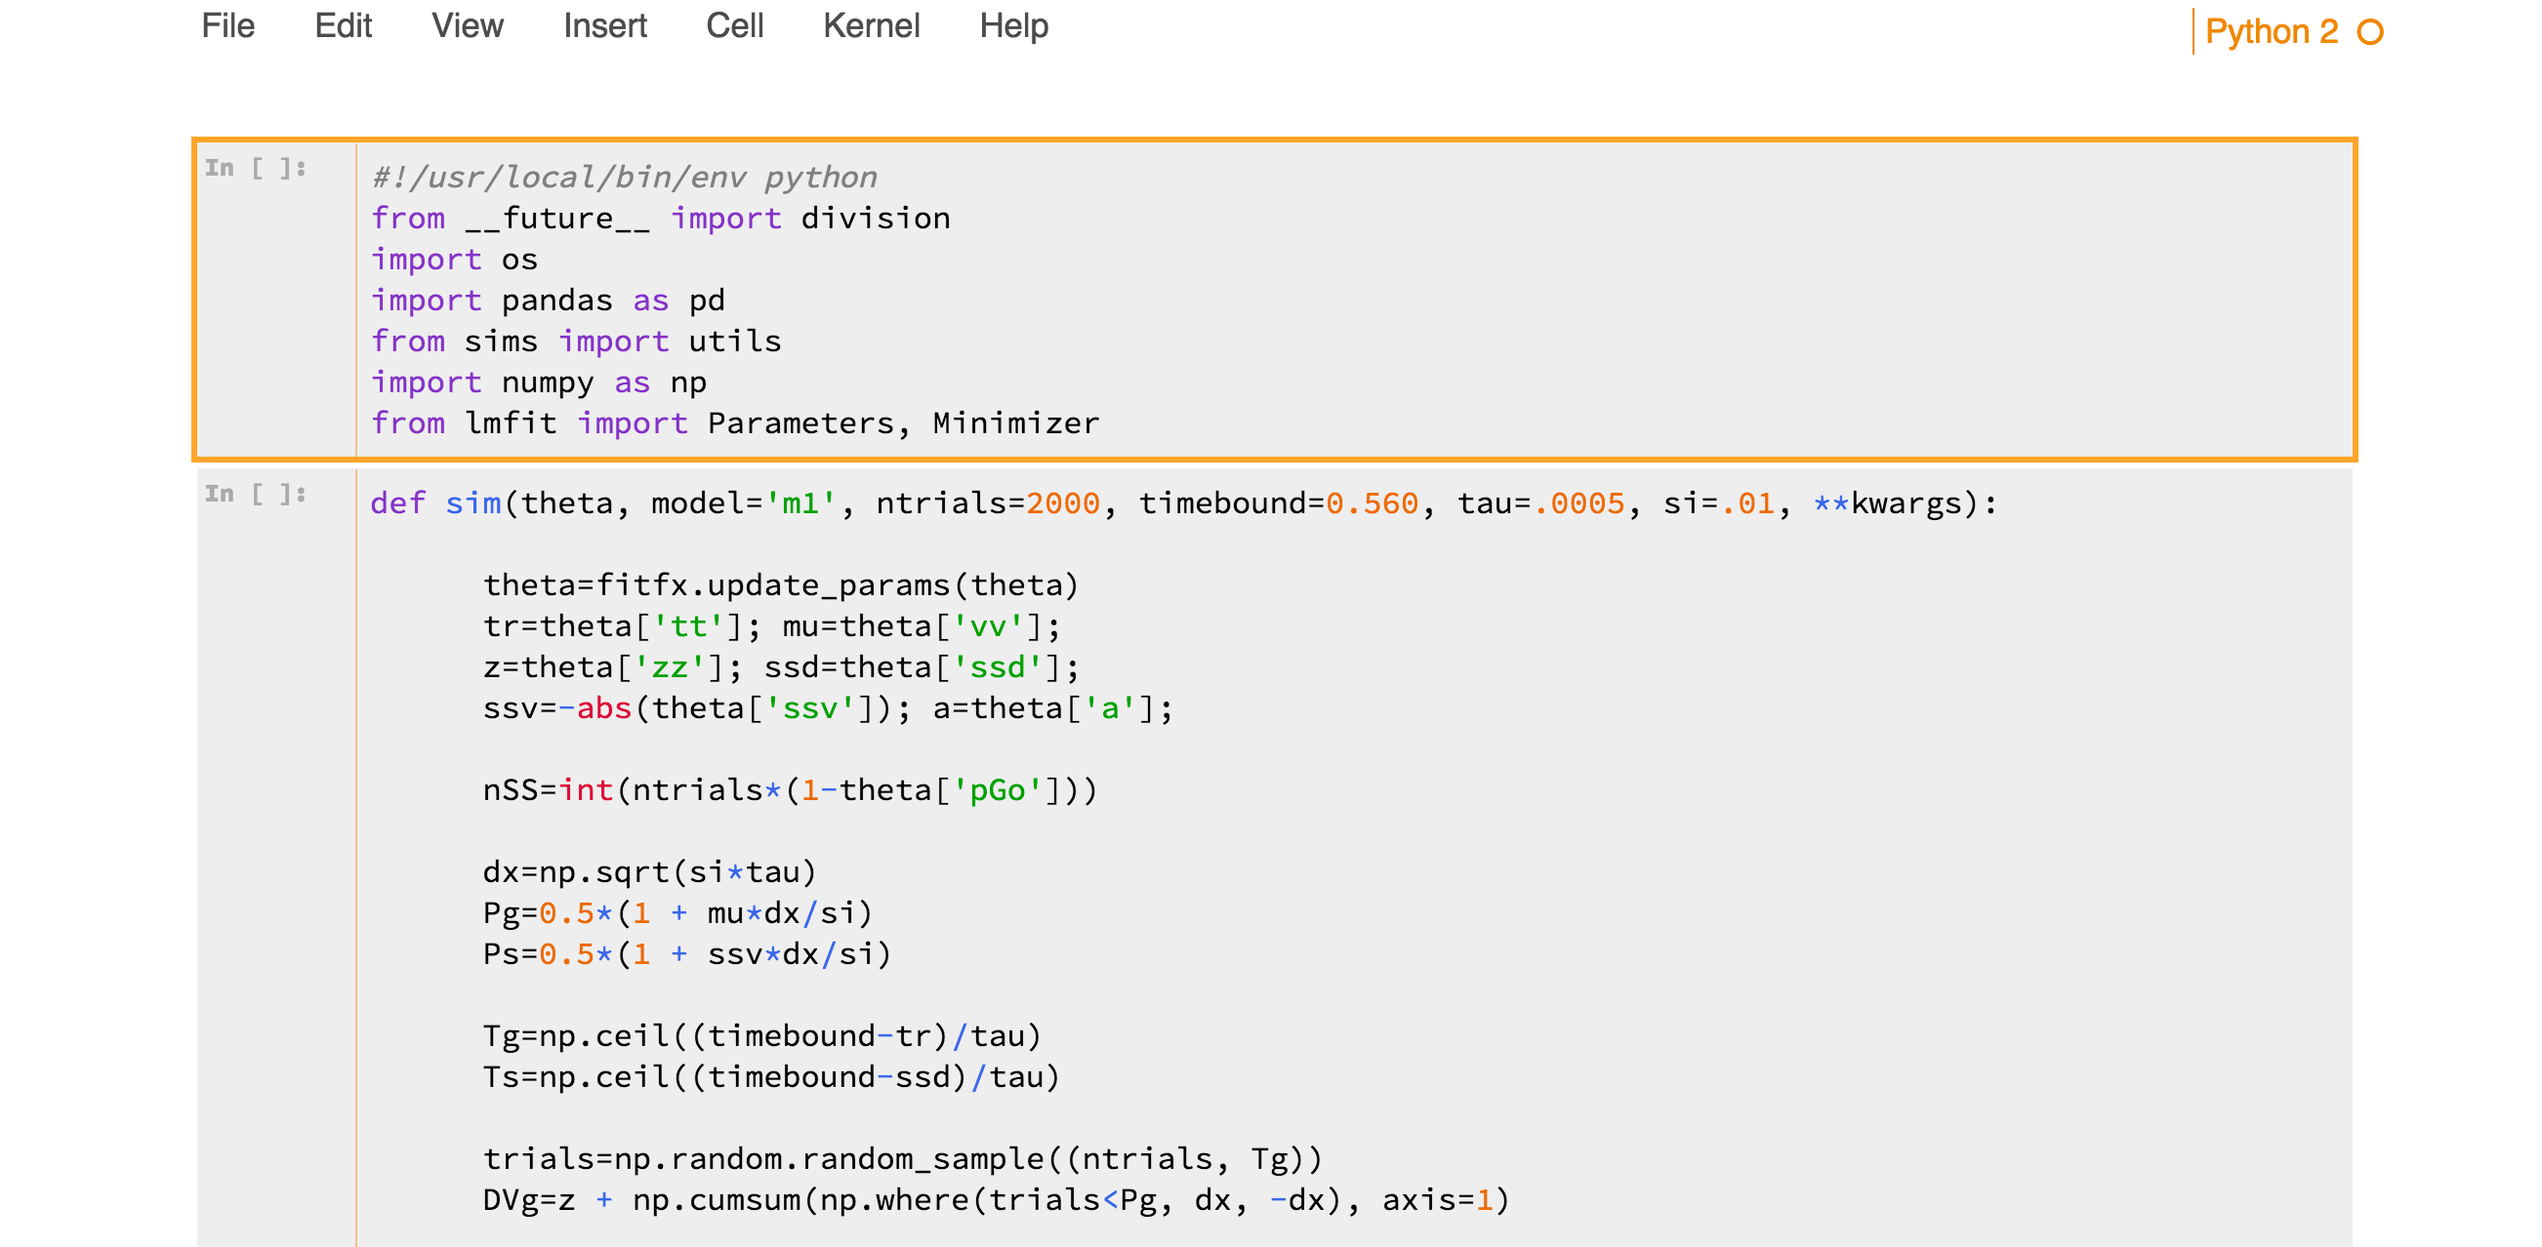
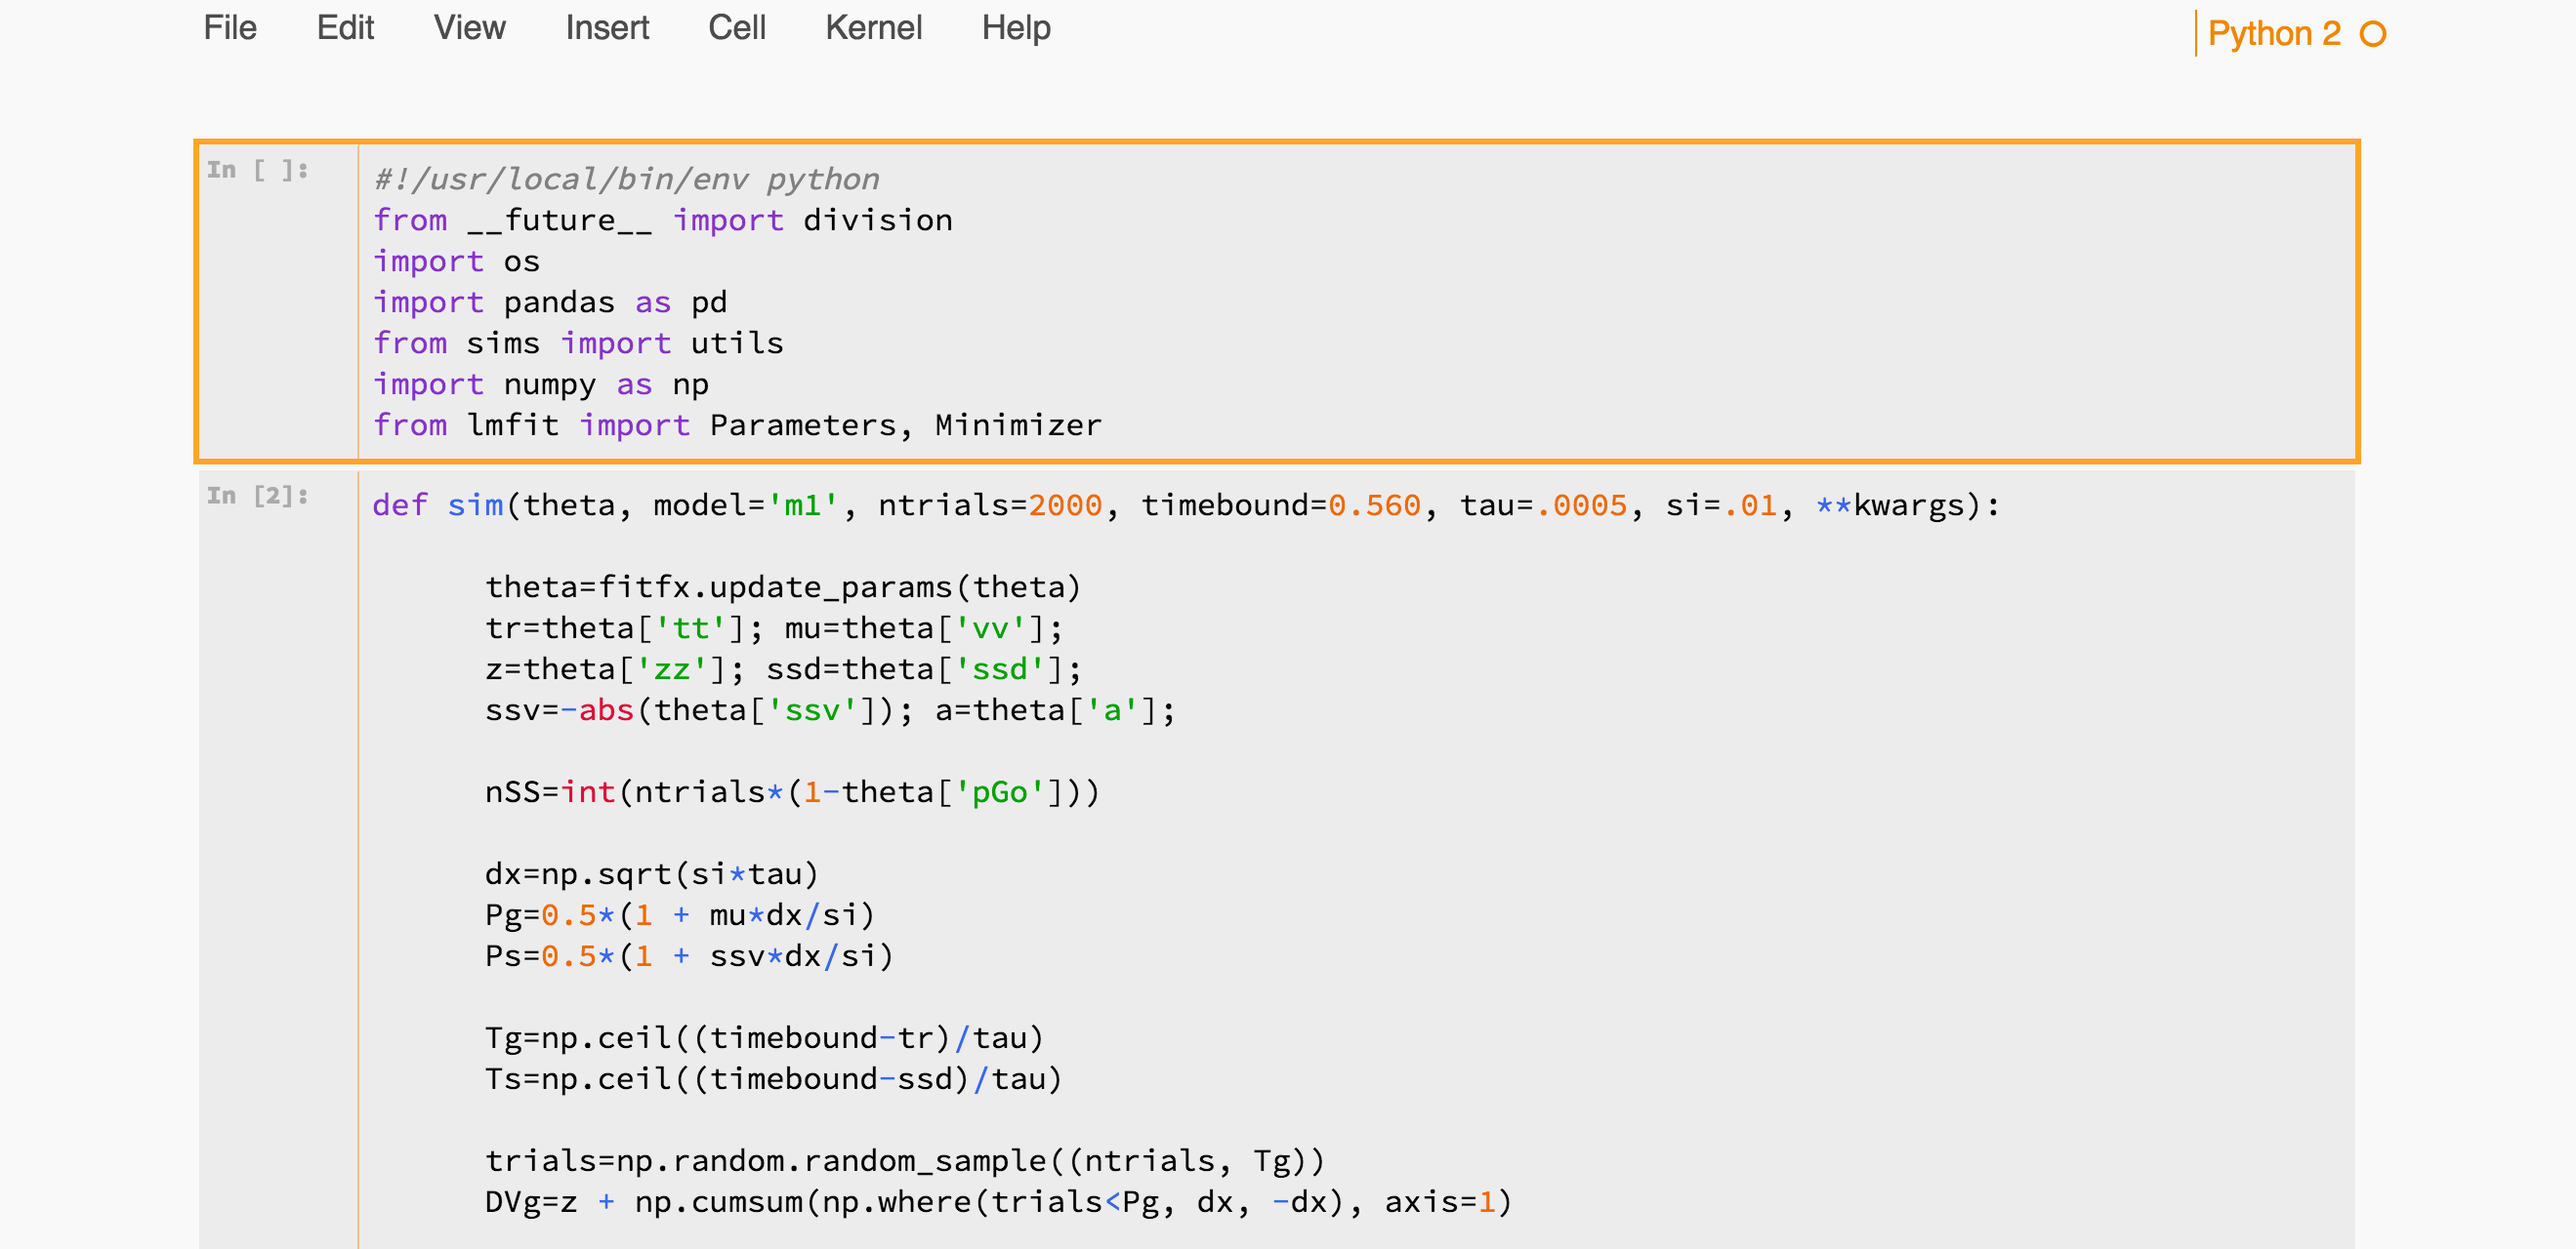
slightly darker g3 bkgnd and updated screen

diff --git a/grade3.css b/grade3.css
@@ -3,7 +3,7 @@
     Author:     Kyle Dunovan (http://github.com/dunovank)
 */
 
-body {background-color: #f6f6f6;}
+body {background-color: #f9f9f9;}
 
 a {color: #2c2c2c; font-family: 'Helvetica', sans-serif; }
 div#notebook, div.CodeMirror, div.output_area pre, div.output_wrapper, div.prompt, div.CodeMirror pre {font-family:'Source Code Pro', monospace; font-size: 12pt;}
@@ -36,8 +36,8 @@ div.notebook_list_header {
     background: rgba(184, 184, 184, 0.05);
 }
 .dropdown-menu {
-    background-color: #eeeeee;
-    background: #eeeeee;
+    background-color: #ececed;
+    background: #ececed;
     border: thin solid #dbdbdb;
     box-shadow: none;
     padding-top: 0px;
@@ -47,7 +47,7 @@ div.notebook_list_header {
     text-align: left;
 }
 .dropdown-menu:hover{
-    background-color: #eeeeee;
+    background-color: #ececed;
     border: thin solid #dbdbdb;
     box-shadow: none;
     padding-top: 0px;
@@ -66,8 +66,8 @@ div.notebook_list_header {
     display: block;
     padding: none;
     clear: both;
-    background-color: #eeeeee;
-    background: #eeeeee;
+    background-color: #ececed;
+    background: #ececed;
     background-clip: padding-box;
     font-weight: normal;
     line-height: 1.42857;
@@ -91,12 +91,12 @@ div.notebook_list_header {
 }
 .modal-header {
     padding: 15px;
-    border-bottom: 1px solid #f6f6f6;
+    border-bottom: 1px solid #f9f9f9;
     min-height: 16.4286px;
 }
 .modal-content {
     position: relative;
-    background-color: #f6f6f6;
+    background-color: #f9f9f9;
     border: 1px solid #808080;
     border-radius: 3px;
     box-shadow: 0px 3px 9px #808080;
@@ -107,12 +107,12 @@ div.notebook_list_header {
     line-height: 22px;
     fontsize: 12px;
     margin-bottom: 18px;
-    background-color: #f6f6f6;
+    background-color: #f9f9f9;
     color: #2c2c2c;
     box-shadow: none;
 }
 #running .panel-group .panel .panel-heading {
-    background-color: #f6f6f6;
+    background-color: #f9f9f9;
     padding: 4px 7px;
     line-height: 22px;
 }
@@ -159,20 +159,20 @@ body {
 }
 
 .notebook_app {
-    background-color: #ffffff;
+    background-color: #f9f9f9;
 }
 .notebook_app #header {
     box-shadow: none !important;
 }
 #notebook-container {
     padding: 15px;
-    background-color: #ffffff;
+    background-color: #f9f9f9;
     min-height: 0px;
     box-shadow: none;
 }
 #header {
     box-shadow: none;
-    background-color: #ffffff;
+    background-color: #f9f9f9;
     position: relative;
     z-index: 100;
 }
@@ -182,7 +182,7 @@ body {
     box-shadow: none;
 }
 #header .header-bar {
-    background: #ffffff;
+    background: #f9f9f9;
 }
 div#maintoolbar {
     display: none !important;
@@ -194,12 +194,12 @@ div.output_html {color: #1e2429;}
 .rendered_html table, .rendered_html th, .rendered_html tr, .rendered_html td {
   border: 1px #4c4c4c; solid;
   color: #4c4c4c;
-  background-color: #ffffff !important;
+  background-color: #f9f9f9 !important;
   align-content: left !important;
 }
 .navbar-default {
-    background-color: #ffffff;
-    border-color: #ffffff;
+    background-color: #f9f9f9;
+    border-color: #f9f9f9;
 }
 
 .navbar-default .navbar-nav > li > a {
@@ -216,7 +216,7 @@ div.output_html {color: #1e2429;}
 }
 .btn {
     color: #4c4c4c;
-    background: #f6f6f6;
+    background: #f9f9f9;
     font-size: 12pt;
     font-weight: normal;
     border: 0 none !important;
@@ -227,7 +227,7 @@ div.output_html {color: #1e2429;}
 
 .btn-group > .btn-mini {
     color: #4c4c4c;
-    background: #f6f6f6;
+    background: #f9f9f9;
     font-size: 11pt;
     font-weight: normal;
     border: 0 none !important;
@@ -236,14 +236,14 @@ div.output_html {color: #1e2429;}
 }
 .btn:hover {
     color: #ee8713;
-    background: #f6f6f6;
-    background-color: #f6f6f6;
+    background: #f9f9f9;
+    background-color: #f9f9f9;
     background-image: none;
 }
 .btn-group > .btn-mini:hover {
     color: #ee8713;
-    background: #f6f6f6;
-    background-color: #f6f6f6;
+    background: #f9f9f9;
+    background-color: #f9f9f9;
     background-image: none;
 }
 .btn-group, .btn-group-vertical {
@@ -269,14 +269,14 @@ div.output_html {color: #1e2429;}
 /* Formatting code in markdown cells */
 div.text_cell_render {
     font-family: 'Helvetica', sans-serif;
-    background: #eeeeee;
+    background: #ececed;
     font-weight: 310;
     color: #4c4c4c;
 }
 /* Formatting code in markdown cells */
 div.text_cell_render pre {
     color: #4c4c4c;
-    background-color: #eeeeee;
+    background-color: #ececed;
 }
 div.text_cell {
     max-width: 100%;
@@ -289,7 +289,7 @@ div.text_cell_render h4,
 div.text_cell_render h5,
 div.text_cell_render h6 {
     font-family: 'Helvetica', sans-serif;
-    background: #eeeeee;
+    background: #ececed;
     font-weight: 300;
     color: #4c4c4c;
     line-height: 80%;
@@ -302,7 +302,7 @@ div.output_html {color: #4c4c4c;}
 .rendered_html table, .rendered_html th, .rendered_html tr, .rendered_html td {
   border: 1px #4c4c4c solid;
   color: #4c4c4c;
-  background-color: #eeeeee !important;
+  background-color: #ececed !important;
   align-content: left !important;
 }
 
@@ -334,7 +334,7 @@ button.close {
     font-size: 13pt;
     line-height: 1.6;
     color: #4c4c4c;
-    background-color: #eeeeee;
+    background-color: #ececed;
     background-image: none;
     border: 1px solid rgba(53, 87, 120, 0.95);
     border-radius: 2px;
@@ -363,7 +363,7 @@ span.ansired {color: #b82a18;}
 div.output_stderr {background-color: #DB797C;}
 div.output_stderr pre {color: #000000;}
 
-.cm-s-ipython.CodeMirror {background: #eeeeee; color: #000000; font-size:13pt !important;}
+.cm-s-ipython.CodeMirror {background: #ececed; color: #000000; font-size:13pt !important;}
 .cm-s-ipython div.CodeMirror-selected {background: #dddddd !important;}
 .cm-s-ipython .CodeMirror-gutters {background: #bbbbbb; border: 0px; border-radius:0px;}
 .cm-s-ipython .CodeMirror-linenumber {color: #666666 !important; font-size: 11pt;}
@@ -398,7 +398,7 @@ div.CodeMirror span.CodeMirror-nonmatchingbracket { color: #000000; background: 
 .cm-s-ipython .CodeMirror-nonmatchingbracket { color: #000000; background: rgba(191, 97, 106, .3) !important; }
 
 
-div.cell { border: medium solid #ffffff; padding: 0px; border-radius: 0px; }
+div.cell { border: medium solid #f9f9f9; padding: 0px; border-radius: 0px; }
 div.cell.selected { border: medium solid #ffa43b; padding: 0px; border-radius: 0px; }
 .edit_mode div.cell.selected {border: medium solid rgba(53, 114, 198, .3) !important; padding: 0px; border-radius: 0px; }
 div.cell.edit_mode {border: medium solid rgba(53, 114, 198, .3) !important; padding: 0px; border-radius: 0px;}
@@ -425,7 +425,7 @@ div.prompt.input_prompt {
     font-weight: bold;
     font-size: 9.5pt;
     color: #aaaaaa;
-    background-color: #eeeeee;
+    background-color: #ececed;
     width: 1em;
     padding-bottom: 0px;
     margin-bottom: 0px;
@@ -461,7 +461,7 @@ div.out_prompt_overlay.prompt:hover {
     border-radius: 4px;
     margin-bottom: 8px;
     background-color: #ffffff;
-    box-shadow: #eeeeee 2px 2px 6px 4px inset;
+    box-shadow: #ececed 2px 2px 6px 4px inset;
     -webkit-border-radius: 4px;
     -moz-border-radius: 4px;
 }
